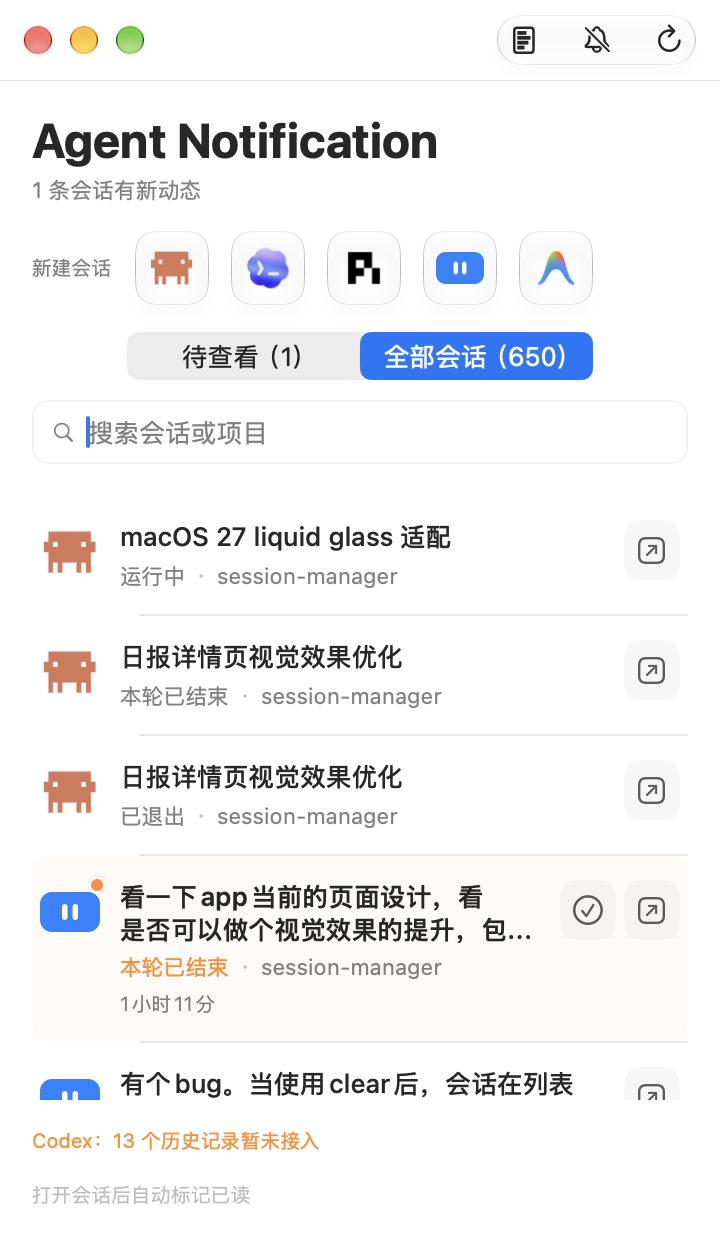
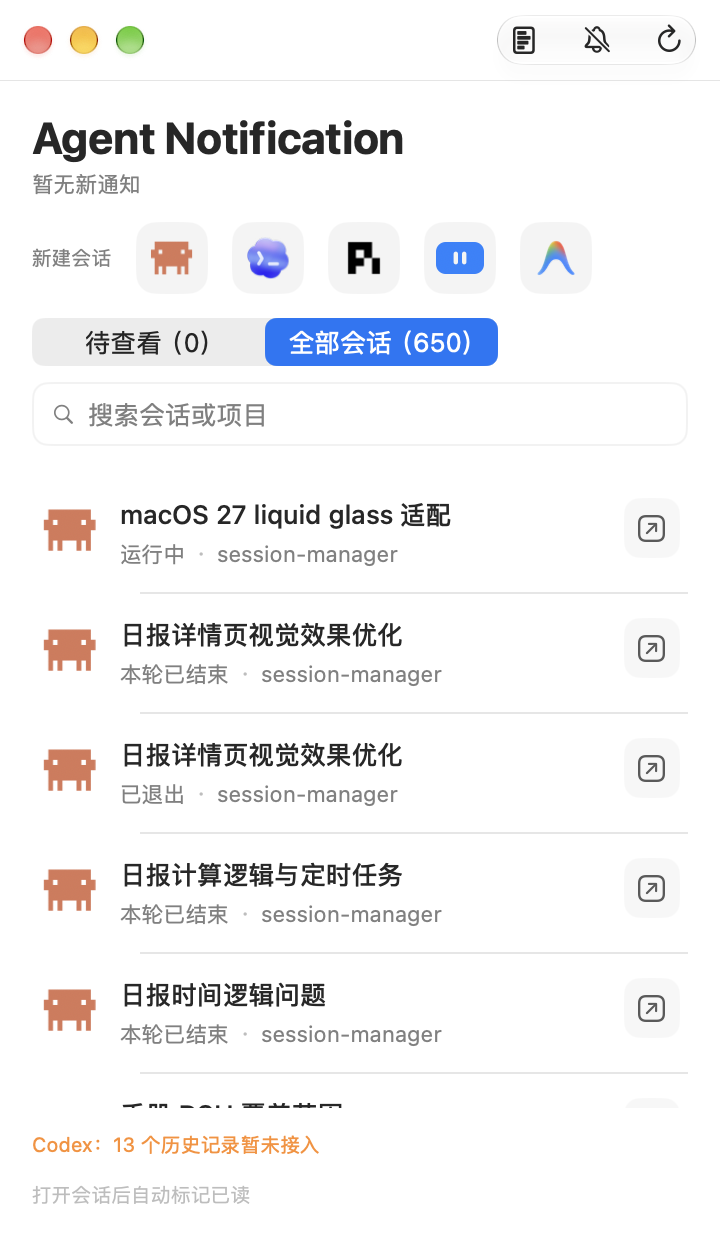
style: flatten inbox launcher tiles, left-align header controls
Glass on the content layer read as heavy dark blocks in dark mode; the
launcher tiles go back to a flat 5% primary fill. Title 24→22, tighter
spacing, and the segmented filter is left-aligned with the search field
instead of floating centered. Refresh the all-sessions screenshot.

diff --git a/native/SessionInbox.swift b/native/SessionInbox.swift
@@ -276,37 +276,9 @@ extension Color {
     static let attention = Color(nsColor: .systemOrange)
 }
 
-// Liquid Glass（macOS 26+）只用于控件层：工具栏按钮、新建会话按钮、悬浮提示卡。
-// 内容层（列表行、日报卡片、搜索框）保持实色，遵循系统「玻璃只做浮层」的分层约定。
-// 构建目标仍是 macOS 14：旧系统走原有实色圆角底，视觉与之前一致。
-struct GlassSurface: ViewModifier {
-    let radius: CGFloat
-    let interactive: Bool
-    func body(content: Content) -> some View {
-        if #available(macOS 26, *) {
-            content.glassEffect(interactive ? .regular.interactive() : .regular,
-                                in: RoundedRectangle(cornerRadius: radius))
-        } else {
-            content
-                .background(Color(nsColor: .controlBackgroundColor), in: RoundedRectangle(cornerRadius: radius))
-                .overlay(RoundedRectangle(cornerRadius: radius).strokeBorder(Color.primary.opacity(0.06)))
-        }
-    }
-}
-extension View {
-    func glassSurface(radius: CGFloat, interactive: Bool = false) -> some View {
-        modifier(GlassSurface(radius: radius, interactive: interactive))
-    }
-    // 同一容器内相邻玻璃控件在靠近时会互相融合；旧系统直接透传。
-    @ViewBuilder
-    func glassGroup(spacing: CGFloat) -> some View {
-        if #available(macOS 26, *) {
-            GlassEffectContainer(spacing: spacing) { self }
-        } else {
-            self
-        }
-    }
-}
+// Liquid Glass（macOS 26+）只用于浮层：窗口工具栏由系统自动套玻璃，日报悬浮卡见 HoverTipSurface。
+// 内容层（新建会话按钮、列表行、日报卡片、搜索框）保持实色——玻璃落在实色窗口底上
+// 只会变成一块块凸起的暗色方砖，尤其深色模式下与轻量的页面语言冲突。
 func stateDotColor(_ state: String) -> Color {
     switch state {
     case "running": return .green
@@ -1924,15 +1896,12 @@ struct NewSessionLauncherRow: View {
             HStack(spacing: 12) {
                 Text("新建会话").font(.caption).foregroundStyle(.secondary)
                     .fixedSize(horizontal: true, vertical: false)
-                HStack(spacing: 12) {
-                    ForEach(model.agents.prefix(visible)) { agent in
-                        launcherButton(agent)
-                    }
-                    if visible < total {
-                        overflowMenu(hidden: Array(model.agents.suffix(total - visible)))
-                    }
+                ForEach(model.agents.prefix(visible)) { agent in
+                    launcherButton(agent)
                 }
-                .glassGroup(spacing: 12)
+                if visible < total {
+                    overflowMenu(hidden: Array(model.agents.suffix(total - visible)))
+                }
                 Spacer()
             }
         }
@@ -1954,7 +1923,7 @@ struct NewSessionLauncherRow: View {
             Image(nsImage: agentIcon(agent.id, size: 24))
                 .frame(width: 24, height: 24)
                 .frame(width: 36, height: 36)
-                .glassSurface(radius: 10, interactive: true)
+                .background(Color.primary.opacity(0.05), in: RoundedRectangle(cornerRadius: 10))
         }
         .buttonStyle(.plain)
         .disabled(!agent.iterm)
@@ -1982,7 +1951,7 @@ struct NewSessionLauncherRow: View {
                 .font(.system(size: 12, weight: .semibold)).monospacedDigit()
                 .foregroundStyle(.secondary)
                 .frame(width: 36, height: 36)
-                .glassSurface(radius: 10, interactive: true)
+                .background(Color.primary.opacity(0.05), in: RoundedRectangle(cornerRadius: 10))
         }
         .menuStyle(.borderlessButton)
         .menuIndicator(.hidden)
@@ -1995,25 +1964,26 @@ struct InboxView: View {
     @ObservedObject var model: InboxModel
     @Environment(\.openWindow) private var openWindow
     var body: some View {
-        VStack(alignment: .leading, spacing: 14) {
-            HStack(alignment: .firstTextBaseline) {
-                VStack(alignment: .leading, spacing: 4) {
-                    Text("Agent Notification").font(.system(size: 24, weight: .bold))
-                    Text(model.unreadCount == 0 ? "暂无新通知" : "\(model.unreadCount) 条会话有新动态")
-                        .font(.subheadline).foregroundStyle(.secondary)
-                }
-                Spacer()
+        VStack(alignment: .leading, spacing: 12) {
+            // 标题、新建会话、分段筛选、搜索全部左对齐到同一列，
+            // 分段控件不再居中悬在中间。
+            VStack(alignment: .leading, spacing: 3) {
+                Text("Agent Notification").font(.system(size: 22, weight: .bold))
+                Text(model.unreadCount == 0 ? "暂无新通知" : "\(model.unreadCount) 条会话有新动态")
+                    .font(.subheadline).foregroundStyle(.secondary)
             }
             if !model.agents.isEmpty {
                 NewSessionLauncherRow(model: model)
             }
-            VStack(spacing: 10) {
+            VStack(spacing: 8) {
                 Picker("显示范围", selection: $model.showAll) {
                     Text("待查看（\(model.unreadCount)）").tag(false)
                     Text("全部会话（\(model.rows.count)）").tag(true)
                 }
                 .pickerStyle(.segmented)
                 .labelsHidden()
+                // macOS 分段控件按内容定宽、无法拉伸，只能靠左对齐进同一列。
+                .frame(maxWidth: .infinity, alignment: .leading)
                 HStack(spacing: 6) {
                     Image(systemName: "magnifyingglass").font(.caption).foregroundStyle(.secondary)
                     TextField("搜索会话或项目", text: $model.query)
